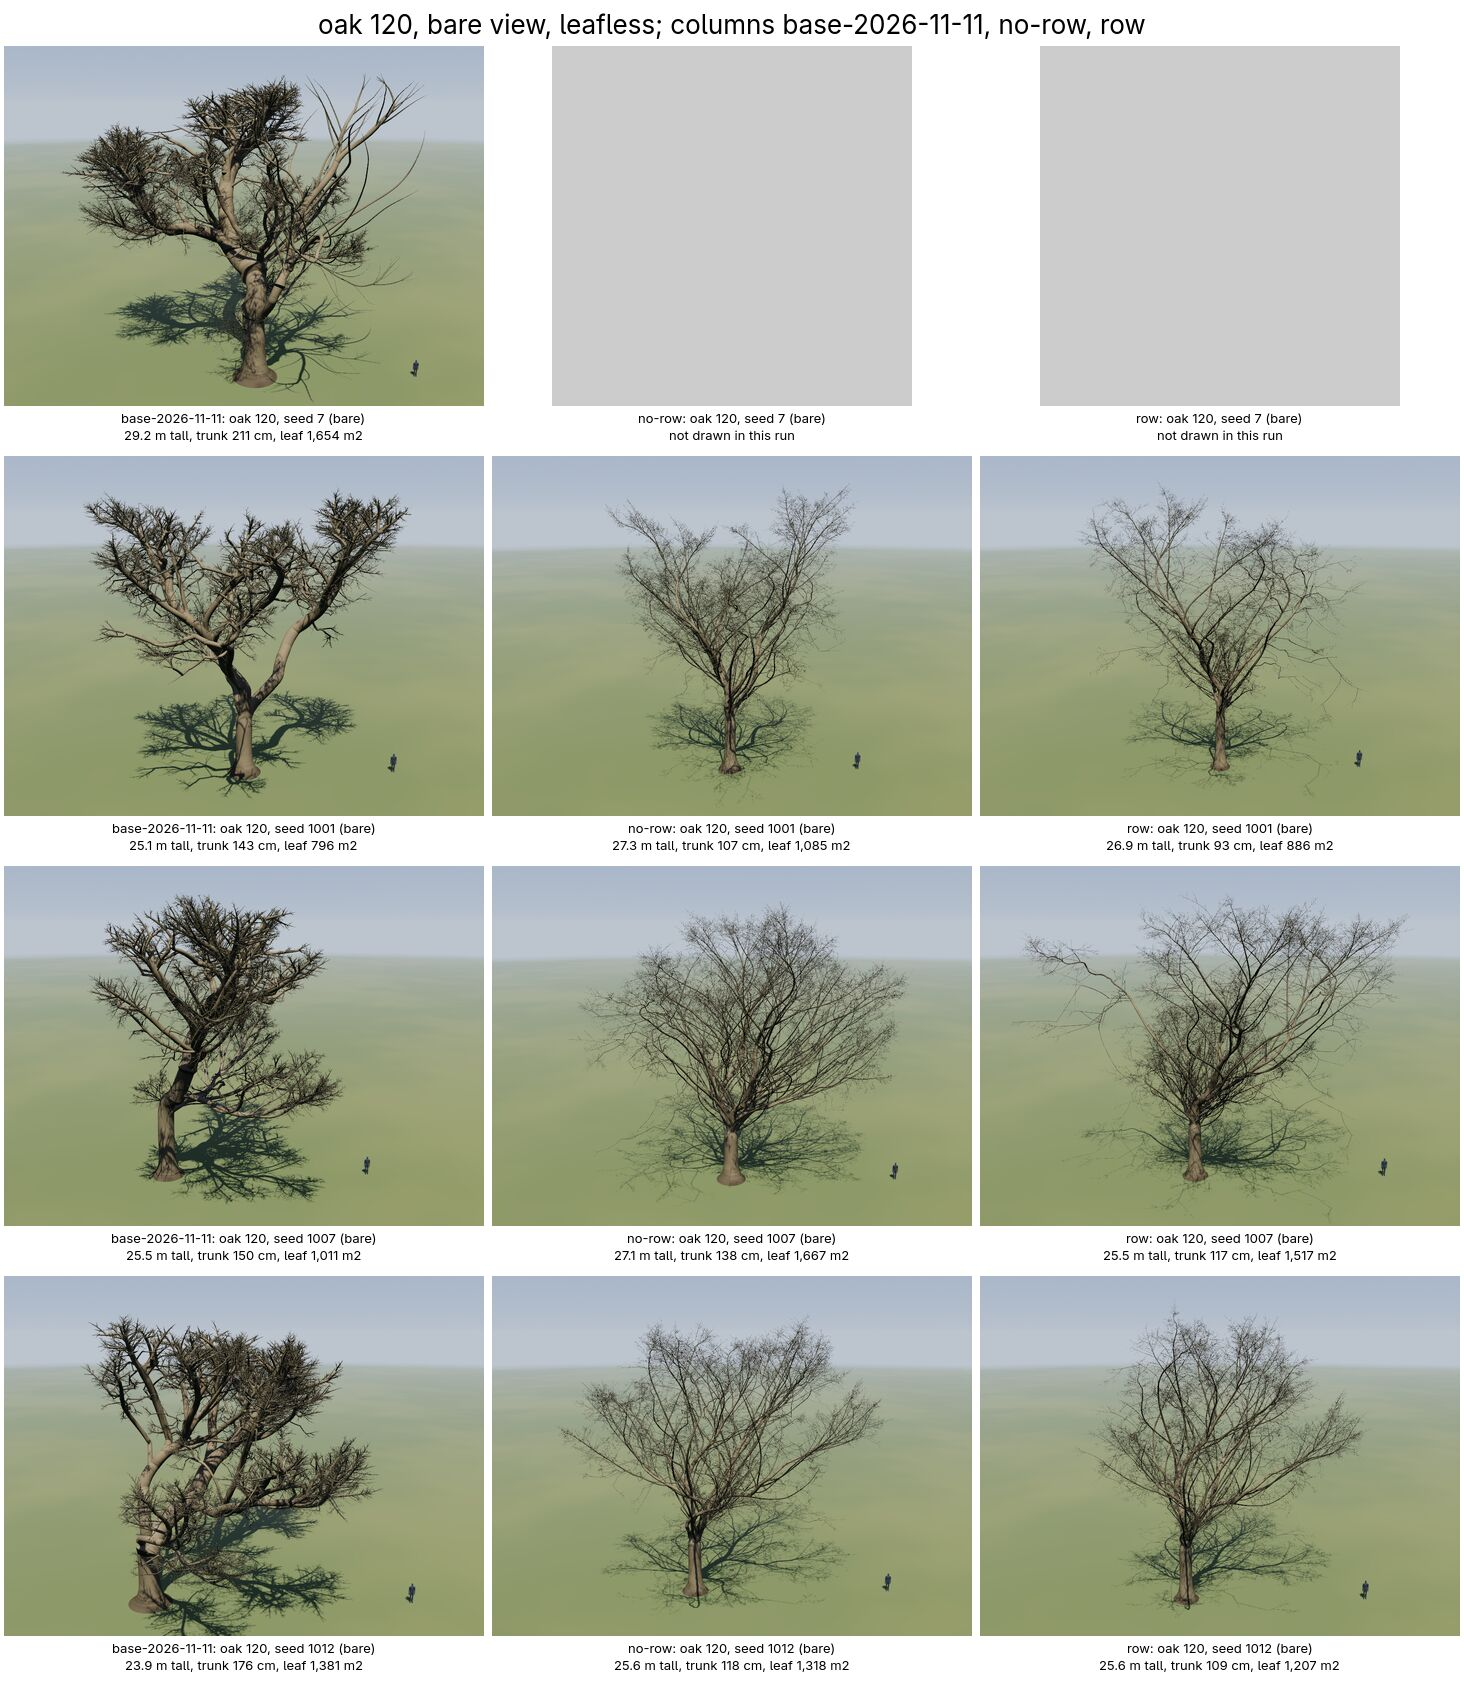
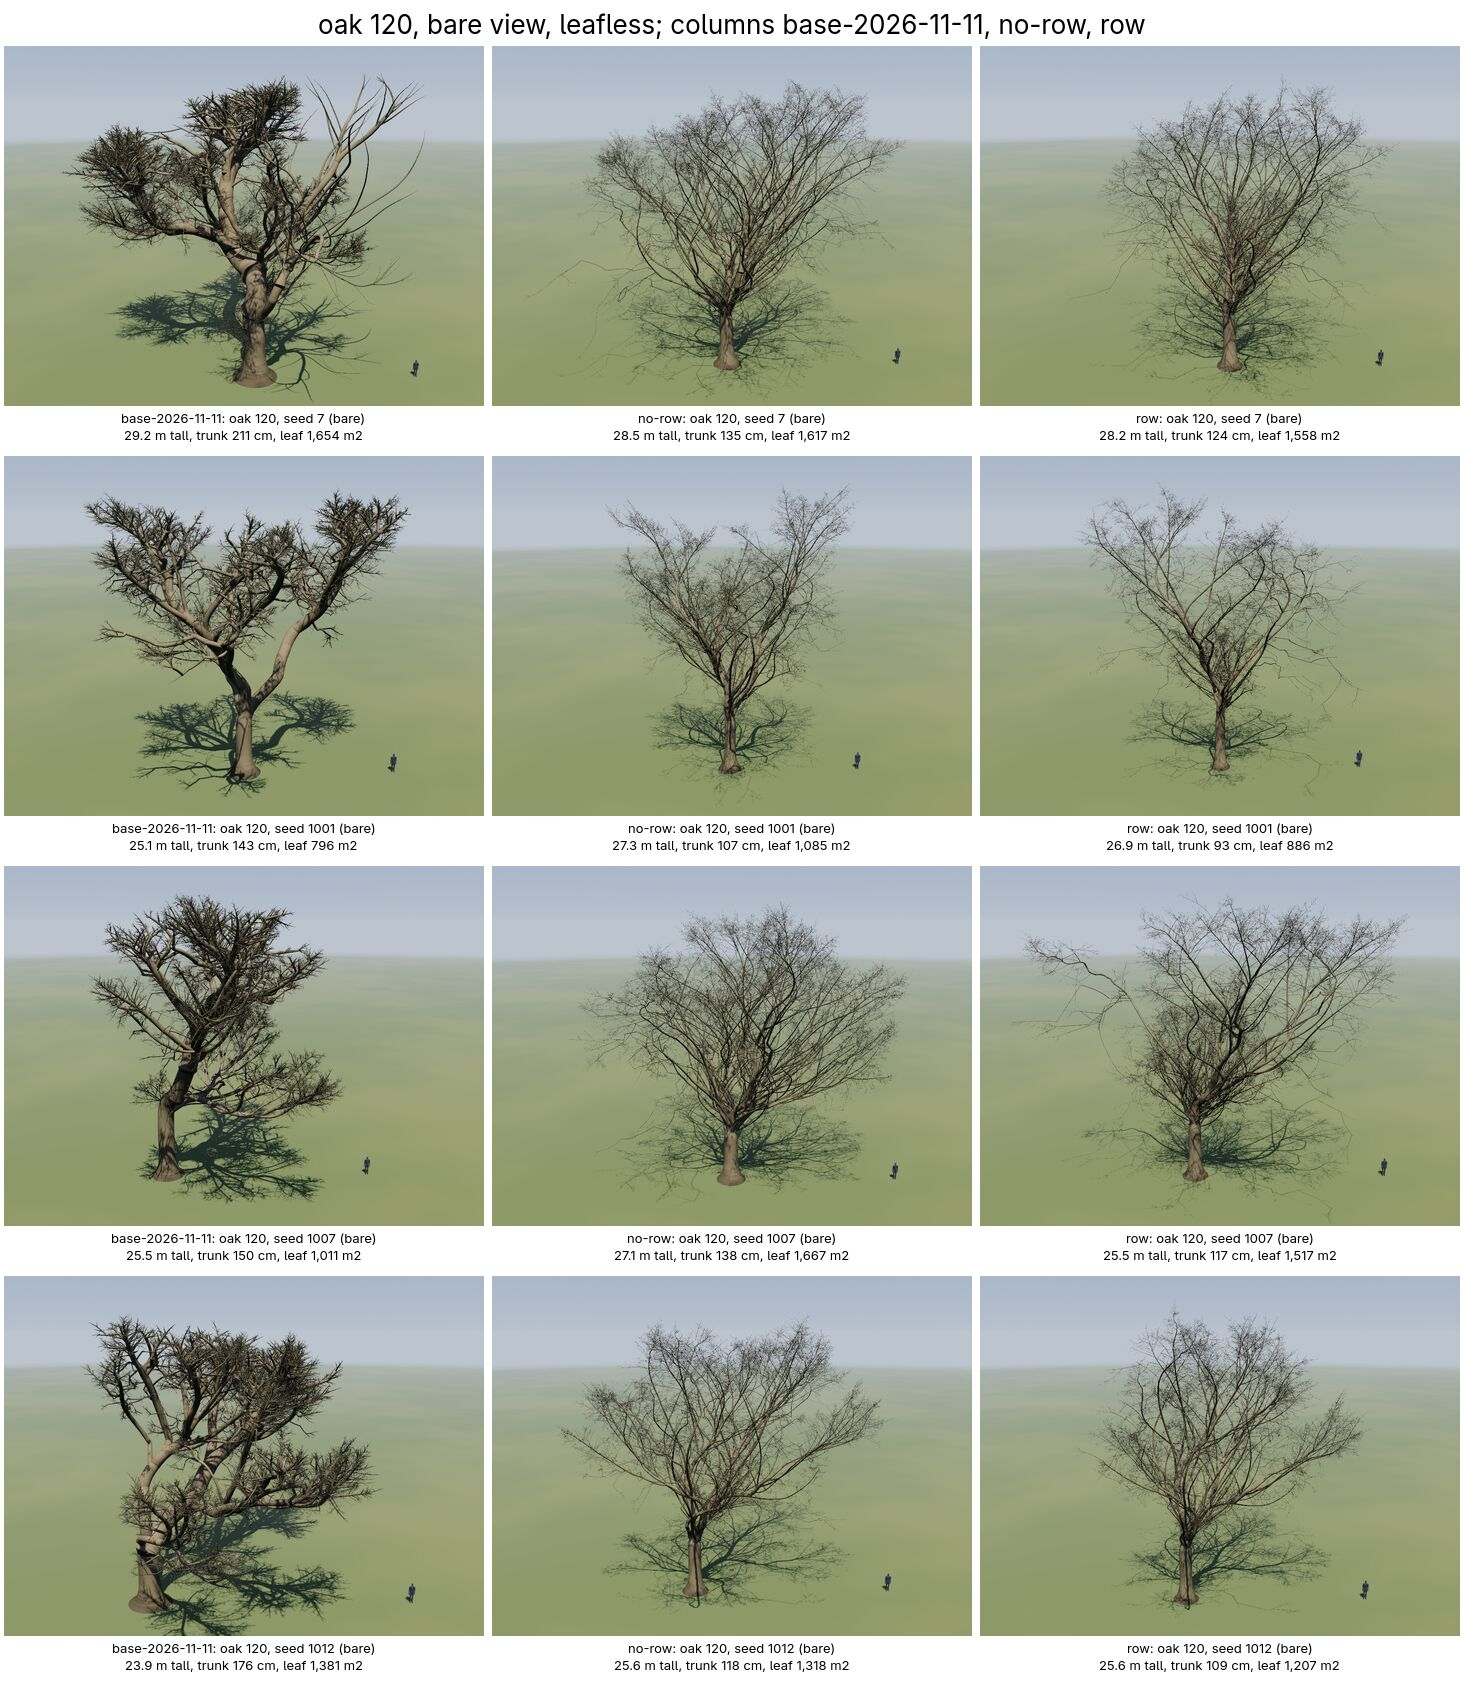
docs(evidence): fn-361 the oak's whole panel, base, no row and row
Sheets at 40 to 300, whole and leafless, height, trunk and leaf under
each tile; PANEL.md's table with White's trunk ranges counted. Trees
over 24 GB listed (OOM.txt): the row 2 at 200 and 8 at 300, no row 2
at 300.

Task: fn-361-the-oaks-sibling-limbs-are-unequal.1

Claude-Session: https://claude.ai/code/session_01AeCcfiPVtqKLYJpDXAsFsM

Changed region(s): [[0.3381, 0.0, 1.0, 0.2782]]

diff --git a/.flow/evidence/fn-361-the-oaks-sibling-limbs-are-unequal/sheet.py b/.flow/evidence/fn-361-the-oaks-sibling-limbs-are-unequal/sheet.py
@@ -31,13 +31,18 @@ def main():
     rs = v.runs(args)
     ms = [v.measures(lab) for _, lab, _ in rs]
     tiles = []
+    oom = Path(__file__).with_name("OOM.txt")
+    killed = {}
+    for line in oom.read_text().splitlines() if oom.exists() else []:
+        label_, age_, seed_ = line.split()[:3]
+        killed[(label_, int(age_), int(seed_))] = "killed at the 24 GB scope (OOM.txt)"
     for age in (int(a) for a in ages.split(",")):
         for seed in SEEDS:
-            for (name, _, stills), m in zip(rs, ms):
+            for (name, lab, stills), m in zip(rs, ms):
                 t = m.get((v.OAK, float(age), seed))
                 png = stills / f"{v.OAK}-{age}-{seed}-{shot}.png"
                 if t is None and (r := v.refused(stills, v.OAK, age, seed)):
-                    t = {"refused": r}
+                    t = {"refused": killed.get((lab.name, age, seed), r)}
                 text = label(name, t, age, seed, shot)
                 if not png.exists() and t is not None and "refused" not in t:
                     text = text.split("\n")[0] + "\nthis shot not taken in this run"

diff --git a/.flow/evidence/fn-361-the-oaks-sibling-limbs-are-unequal/measures.py b/.flow/evidence/fn-361-the-oaks-sibling-limbs-are-unequal/measures.py
@@ -46,7 +46,7 @@ def tree(label, stills, age, seed, held):
     t = None
     for line in Path(label, "measures.jsonl").read_text().splitlines():
         r = json.loads(line)
-        if r["age"] == age and r["seed"] == seed:
+        if r["preset"] == OAK and r["age"] == age and r["seed"] == seed:
             t = r
     if not log.exists():
         return t, None, None

diff --git a/.flow/evidence/fn-361-the-oaks-sibling-limbs-are-unequal/PANEL.md b/.flow/evidence/fn-361-the-oaks-sibling-limbs-are-unequal/PANEL.md
@@ -1,0 +1,45 @@
+# fn-361 R4: the oak's panel with the limb dominance (builder, Opus, 13 Nov 2026)
+
+The panel of fn-352 (`scoreboard/run.sh`'s `_panel` stage and its probe), the oak at 40, 80, 120, 200 and 300 on seeds 1001 to 1012 (measures) and 7, 1001, 1007, 1012 (stills, whole and leafless), in three columns:
+
+- **base-2026-11-11**: fn-352's base sheet run (`c187c68cd`), its stills read from the checkout that holds them.
+- **no-row**: this branch's base `b13c0d1d0`, scoreboard label `fn361-norow`, its probe built from a detached checkout of that commit with its own target.
+- **row**: `8f079717c`, label `fn361-d05`.
+
+Sheets, height, trunk and leaf under each tile (`sheet.py`): `oak-40-80-{whole,bare}.jpg`, `oak-120-{whole,bare}.jpg`, `oak-200-{whole,bare}.jpg`, `oak-300-{whole,bare}.jpg`. Table: `measures.py` over each label's `measures.jsonl` and the trees' logs.
+
+## Measures
+
+Median (lowest to highest) over seeds 1001 to 1012. Crown spread is the mean of the two ground axes. "inside White's" counts the trees whose trunk at 1.3 m lies in White's open-grown *Q. robur* range at that age (0.28 to 0.40 m at 40, 0.56 to 0.79 at 80, 0.83 to 1.09 at 120, 1.21 to 1.52 at 200, 1.56 to 1.92 at 300; quoted in fn-352's SCOREBOARD.md). Peak GiB and seconds are each tree's own process (`peak.py`); seconds count only where no PAUSE of the yield watcher fell inside the tree's run. The base's seconds are from 11 Nov, before the watcher, under another gate's load.
+
+| tree | run | drawn | height m | crown spread m | trunk 1.3 m, m | inside White's | leaf m2 | phytomers | peak GiB | seconds |
+|---|---|---|---|---|---|---|---|---|---|---|
+| oak 40 | base-2026-11-11 | 12/12 | 10.6 (10.3 to 11.1) | 8.4 (6.9 to 9.7) | 0.78 (0.56 to 0.94) | 0 of 12 in 0.28 to 0.40 | 185 (115 to 214) | 490,720 (325,454 to 654,115) | 0.58 (0.45 to 0.84) | 2 (2 to 3) |
+| oak 40 | no-row | 12/12 | 10.6 (10.4 to 11.1) | 8.5 (7.4 to 9.9) | 0.33 (0.26 to 0.36) | 10 of 12 in 0.28 to 0.40 | 187 (88 to 240) | 505,004 (326,166 to 674,392) | 0.70 (0.50 to 0.83) | 2 (2 to 3) |
+| oak 40 | row | 12/12 | 11.1 (10.6 to 12.0) | 8.9 (8.0 to 10.3) | 0.28 (0.22 to 0.31) | 5 of 12 in 0.28 to 0.40 | 119 (66 to 160) | 489,855 (320,827 to 678,090) | 0.65 (0.47 to 0.79) | 2 (2 to 3) |
+| oak 80 | base-2026-11-11 | 12/12 | 19.4 (17.5 to 22.1) | 23.1 (16.1 to 27.7) | 1.99 (1.10 to 2.52) | 0 of 12 in 0.56 to 0.79 | 1,120 (548 to 1,417) | 3,284,404 (1,593,559 to 4,288,137) | 3.20 (1.89 to 3.88) | 41 (17 to 62) |
+| oak 80 | no-row | 12/12 | 19.8 (18.1 to 22.0) | 24.1 (18.1 to 26.6) | 0.94 (0.69 to 1.01) | 3 of 12 in 0.56 to 0.79 | 1,435 (753 to 1,664) | 3,690,198 (1,852,188 to 4,980,525) | 4.05 (2.29 to 4.77) | 27 (15 to 41); 1 not timed |
+| oak 80 | row | 12/12 | 19.4 (18.0 to 20.9) | 20.4 (15.6 to 24.6) | 0.75 (0.58 to 0.85) | 9 of 12 in 0.56 to 0.79 | 931 (526 to 1,187) | 3,940,601 (1,779,662 to 5,374,370) | 3.88 (2.04 to 4.77) | 27 (13 to 40); 2 not timed |
+| oak 120 | base-2026-11-11 | 12/12 | 27.6 (23.9 to 29.2) | 30.6 (23.0 to 38.8) | 2.02 (1.43 to 2.80) | 0 of 12 in 0.83 to 1.09 | 1,409 (796 to 2,460) | 4,801,158 (2,370,405 to 7,357,477) | 5.00 (2.81 to 6.81) | 85 (50 to 123) |
+| oak 120 | no-row | 12/12 | 28.9 (25.6 to 31.4) | 35.2 (24.2 to 38.9) | 1.42 (1.07 to 1.50) | 1 of 12 in 0.83 to 1.09 | 1,842 (1,085 to 2,163) | 6,162,578 (3,100,796 to 9,175,834) | 5.95 (3.59 to 8.10) | 86 (44 to 132) |
+| oak 120 | row | 12/12 | 27.3 (25.5 to 29.3) | 31.8 (25.5 to 35.9) | 1.23 (0.93 to 1.32) | 3 of 12 in 0.83 to 1.09 | 1,606 (886 to 1,811) | 9,499,612 (3,969,512 to 14,392,838) | 7.92 (4.14 to 10.44) | 126 (43 to 160) |
+| oak 200 | base-2026-11-11 | 12/12 | 32.4 (21.4 to 37.1) | 25.5 (19.8 to 32.4) | 1.35 (1.02 to 2.74) | 5 of 12 in 1.21 to 1.52 | 638 (309 to 1,834) | 1,766,405 (849,410 to 4,573,179) | 4.54 (2.57 to 5.87) | 175 (78 to 335) |
+| oak 200 | no-row | 12/12 | 30.2 (25.6 to 34.8) | 28.3 (23.3 to 36.3) | 1.80 (1.33 to 2.06) | 2 of 12 in 1.21 to 1.52 | 1,213 (297 to 2,026) | 7,099,312 (988,917 to 21,847,299) | 6.83 (1.81 to 17.60) | 221 (67 to 442) |
+| oak 200 | row | 10/12 | 28.8 (23.1 to 30.4) | 29.4 (18.2 to 33.1) | 1.76 (1.33 to 1.86) | 2 of 10 in 1.21 to 1.52 | 1,380 (872 to 1,537) | 17,915,169 (4,850,195 to 30,278,650) | 13.58 (5.09 to 23.94) | 471 (133 to 724); 1 not timed |
+| oak 300 | base-2026-11-11 | 12/12 | 35.3 (26.3 to 48.1) | 26.4 (20.6 to 38.4) | 1.28 (0.89 to 1.73) | 4 of 12 in 1.56 to 1.92 | 561 (245 to 1,249) | 1,499,942 (681,125 to 3,151,362) | 4.48 (2.96 to 6.45) | 300 (208 to 394) |
+| oak 300 | no-row | 10/12 | 27.7 (7.8 to 30.7) | 23.4 (3.0 to 26.7) | 2.01 (1.35 to 2.39) | 3 of 10 in 1.56 to 1.92 | 512 (0 to 1,822) | 2,795,280 (84,740 to 31,028,589) | 3.77 (1.54 to 23.86) | 214 (73 to 841); 2 not timed |
+| oak 300 | row | 5/12 | 29.7 (27.8 to 31.9) | 24.4 (18.8 to 30.2) | 1.81 (1.63 to 2.26) | 3 of 5 in 1.56 to 1.92 | 700 (523 to 1,003) | 12,745,620 (3,877,576 to 23,870,486) | 9.27 (4.29 to 16.97) | 425 (225 to 913) |
+
+## Trees that could not be drawn in 24 GB
+
+Each tree ran in its own `telperion-heavy 24` scope; the kernel OOM killer ended these at the scope's 24 GB (journal `oom-kill`, memory peak 24G); `OOM.txt` lists them with times.
+
+- **row, 200:** seeds 1002 (also killed at the panel's first 16 GB scope) and 1010.
+- **row, 300:** seeds 7, 1002, 1005, 1006, 1008, 1009, 1010, 1011 (8 of 13; 5 of the 12 measured seeds drawn).
+- **no-row, 300:** seeds 1002 and 1010.
+
+## Notes
+
+- no-row at 300, seed 1001, is the known zero-size drawing (7.8 m, no leaf; PHASE3-TRIALS.md); it is in the no-row 300 medians.
+- The six other presets were not redrawn (R5): their both-ends pins are unchanged (PINS.md).
+- The stop check at 40 and 80 is STOPCHECK.md (the host ruled on it: go on).
